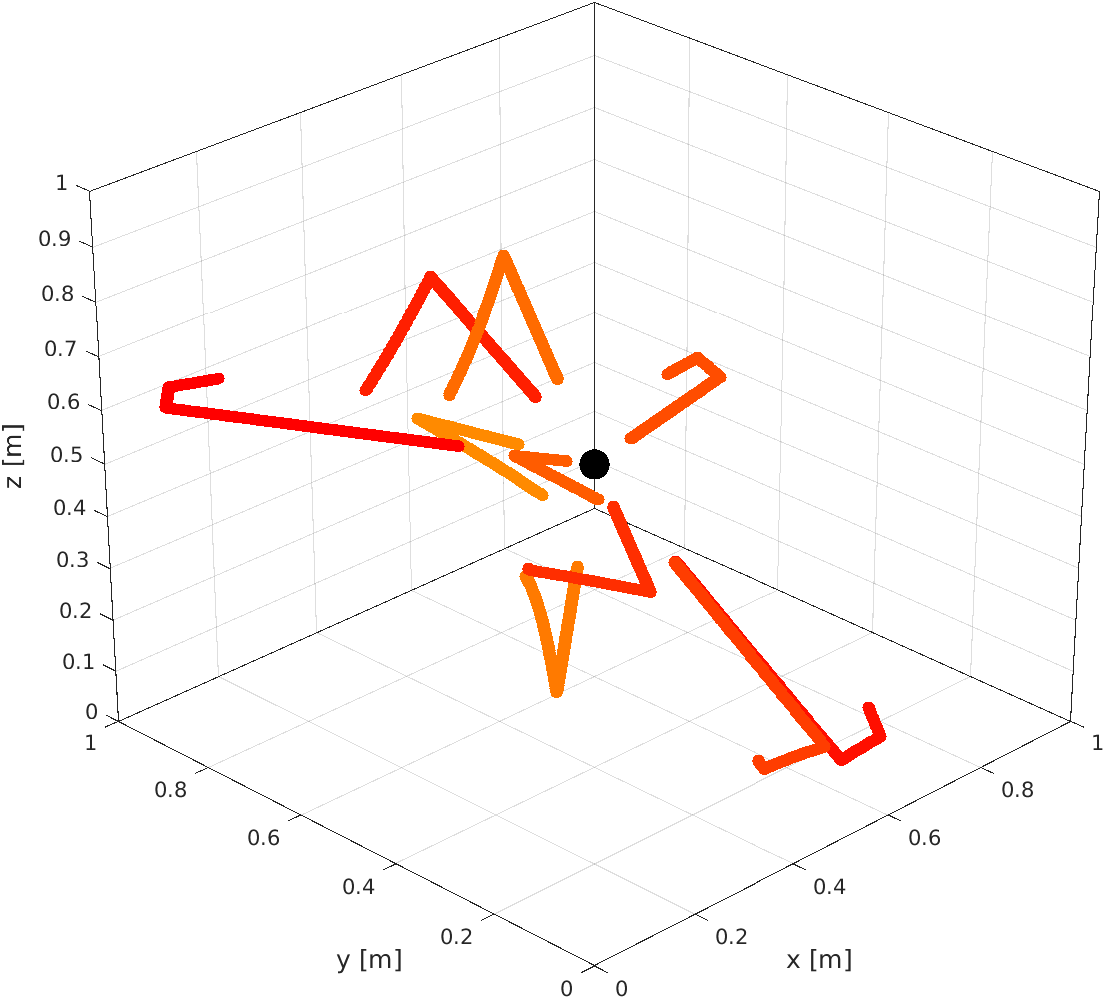
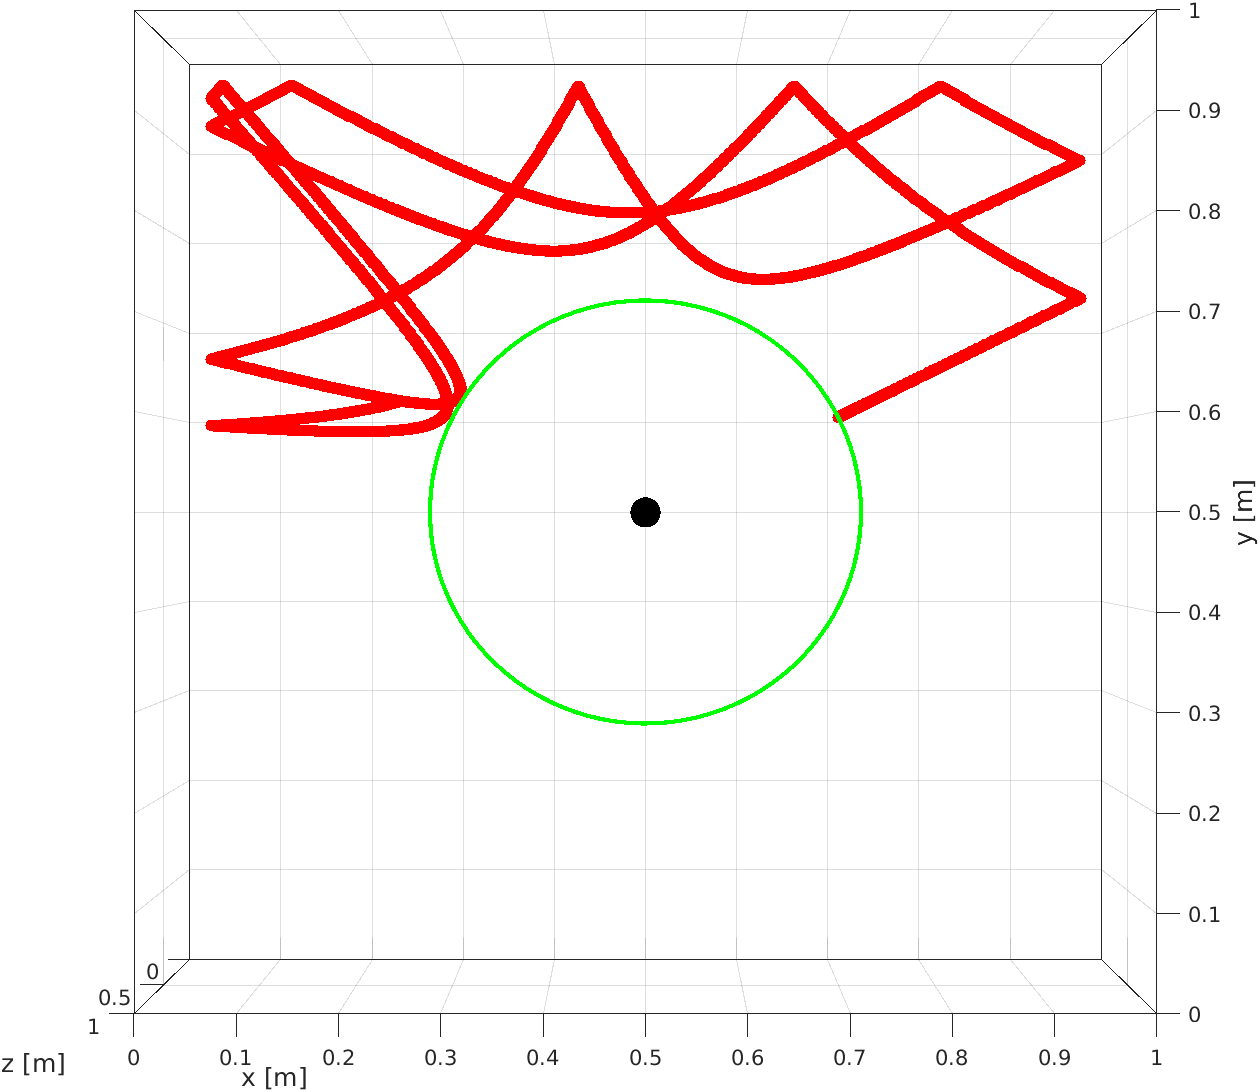
New particle positions for charge and edipole

diff --git a/main.m b/main.m
@@ -1,11 +1,11 @@
 clf, clearvars, clc
 DT = 0.1;  % Time step
-T = 300;  % Total time for simulation, change between runs
+T = 50;  % Total time for simulation, change between runs
 PARTICLE_MASS = 1e-3;  % 1 g
 PARTICLE_CHARGE = 1e-9;  % 1 nC
 
 % Choose between "charge", "eDipole", "current" and "mDipole"
-TYPE = "mDipole";
+TYPE = "eDipole";
 
 % Toggle this to see shadows for all particles on the sides of the box and
 % shadows for field object.
@@ -27,31 +27,29 @@ field_obj = generate_field_obj(TYPE);
 % characteristic behaviour
 switch TYPE
     case "charge"
-        % Place particles randomly on sphere surface
-        radius = 0.2;
-        for k=1:10
-            theta = pi*rand; phi = 2*pi*rand;
-            particles(k).position = field_obj.position + [radius*sin(theta)*cos(phi); radius*sin(theta)*sin(phi); radius*cos(theta)];
-            particles(k).velocity = [0; 0; 0];
-            cmap = hsv(100);
-            particles(k).color = cmap(k,:);
-        end
+        particles(1).position = [0.7;0.6;0.5];
+        particles(1).color = "r";
+        particles(1).velocity = [0;0;0];
     case "eDipole"
         particles(1).position = [0.5;0.5;0.8];
-        particles(1).color = "b";
+        particles(1).color = "r";
         particles(1).velocity = [0;0;0];
         particles(2).position = [0.5;0.5;0.2];
-        particles(2).color = "b";
+        particles(2).color = "r";
         particles(2).velocity = [0;0;0];
         particles(3).position = [0.8;0.5;0.5];
-        particles(3).color = "c";
+        particles(3).color = "r";
         particles(3).velocity = [0;0;0];
         particles(4).position = [0.5;0.8;0.5];
-        particles(4).color = "b";
+        particles(4).color = "r";
         particles(4).velocity = [0;0;0];
         particles(5).position = [0.5;0.2;0.5];
-        particles(5).color = "b";
+        particles(5).color = "r";
         particles(5).velocity = [0;0;0];
+        particles(6).position = [0.5;0.2;1];
+        particles(6).velocity = [0.08;0.02;-0.1];
+        particles(6).color = "g";
+
     case "current"
         % Uncomment this to have wire move with v=0.01 m/s in x.
         % particles(1).position = [0.2;0.5;0.5];
@@ -110,6 +108,9 @@ ax = initialize_axes(ax);
 
 % Uncomment for yz-plane view
 % view(90,0)
+
+% Uncomment for xy-plane view
+% view(0,90)
 
 % Plot particles and field object
 field_obj = plot_field_obj(ax,field_obj,PLOT_SHADOWS);
